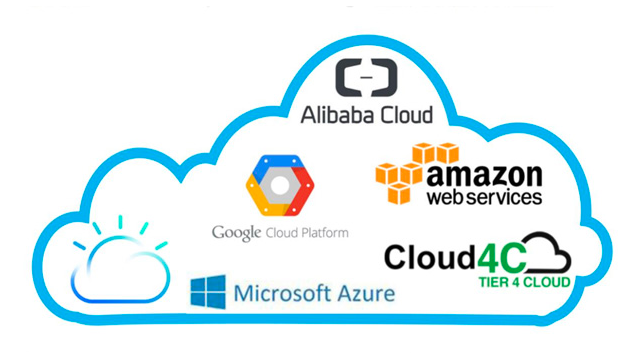
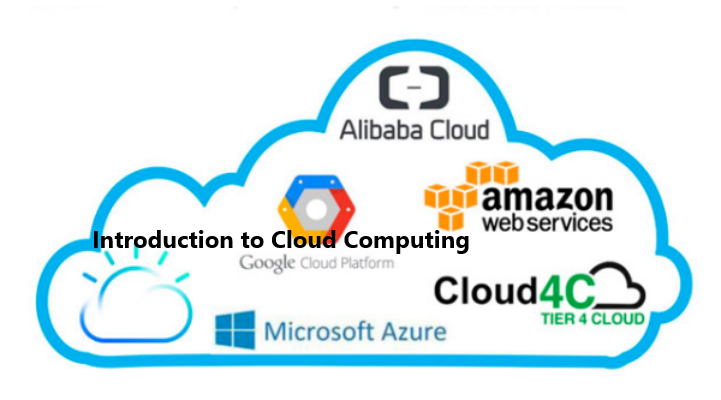
Added Blog

diff --git a/index.html b/index.html
@@ -93,6 +93,8 @@
         </div><!-- container -->
     </section><!-- intro-section -->
 
+
+
     <section class="about-section section">
         <div class="container">
             <div class="row">
@@ -276,6 +278,38 @@
         </div><!-- container -->
 
     </section><!-- about-section -->
+
+    <section class="portfolio-section section">
+        <div class="container">
+            <div class="row">
+                <div class="col-sm-4">
+                    <div class="heading">
+                        <h3><b>Blogs</b></h3>
+                        <h6 class="font-lite-black"><b>Share Knowledge</b></h6>
+                    </div>
+                </div><!-- col-sm-4 -->
+                <div class="col-sm-8">
+                    <div class="portfolioFilter clearfix margin-b-80">
+                        <a href="#" data-filter="*" class="current"><b>ALL</b></a>
+                        <a href="#" data-filter=".Azure"><b>Azure</b></a>
+                        <a href="#" data-filter=".Biztalk"><b>Biztalk</b></a>
+                        <a href="#" data-filter=".Azure-API-Management"><b>Azure API Management</b></a>
+                    </div><!-- portfolioFilter -->
+                </div><!-- col-sm-8 -->
+            </div><!-- row -->
+        </div><!-- container -->
+
+        <div class="portfolioContainer">
+
+            <div class="p-item Azure">
+                <a href="./AzureStorageAccount.html" data-fluidbox>
+                    <img src="Images/Blog-1.png" alt="">
+                </a>
+            </div><!-- p-item -->
+
+        </div><!-- portfolioContainer -->
+
+    </section><!-- portfolio-section -->
 
     <section class="counter-section" id="counter">
         <div class="container">
